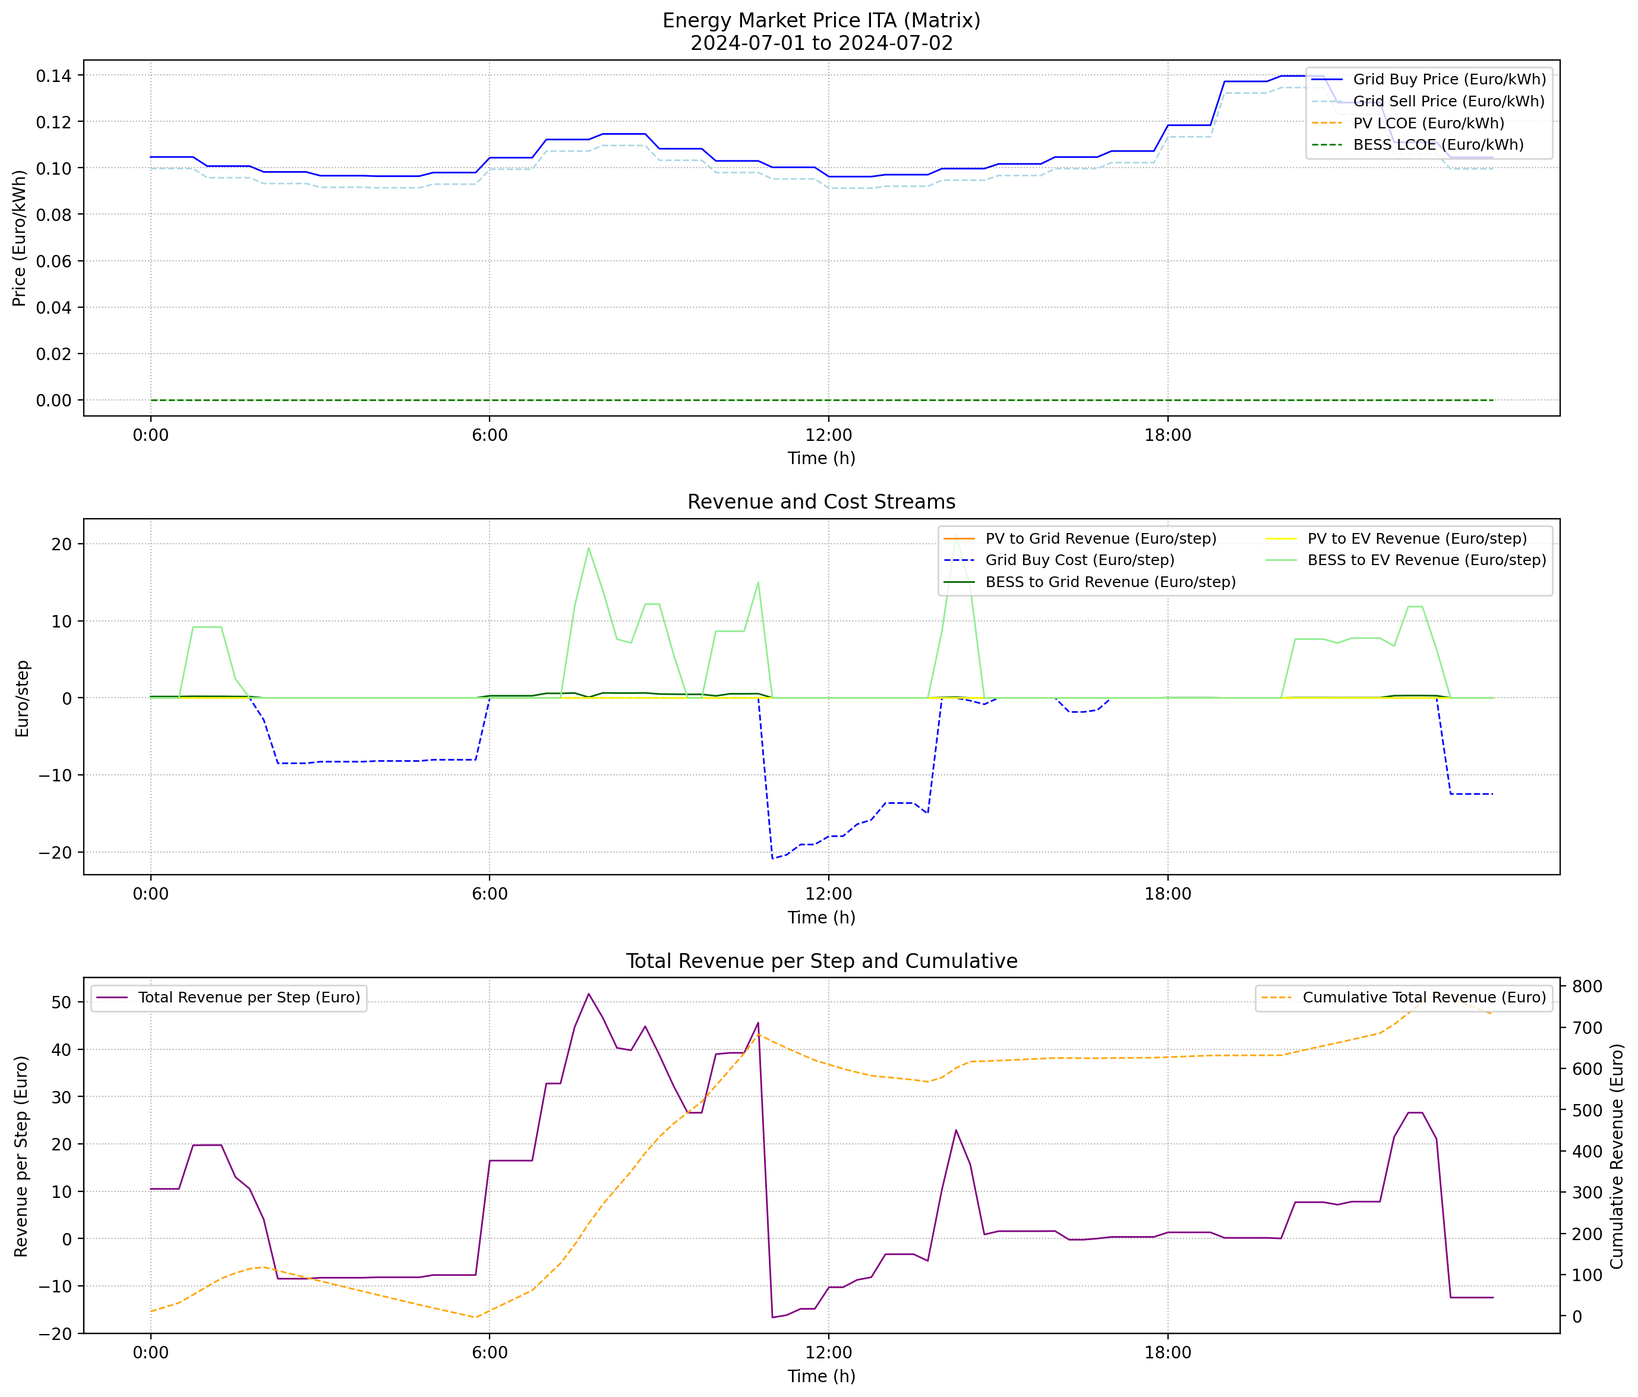
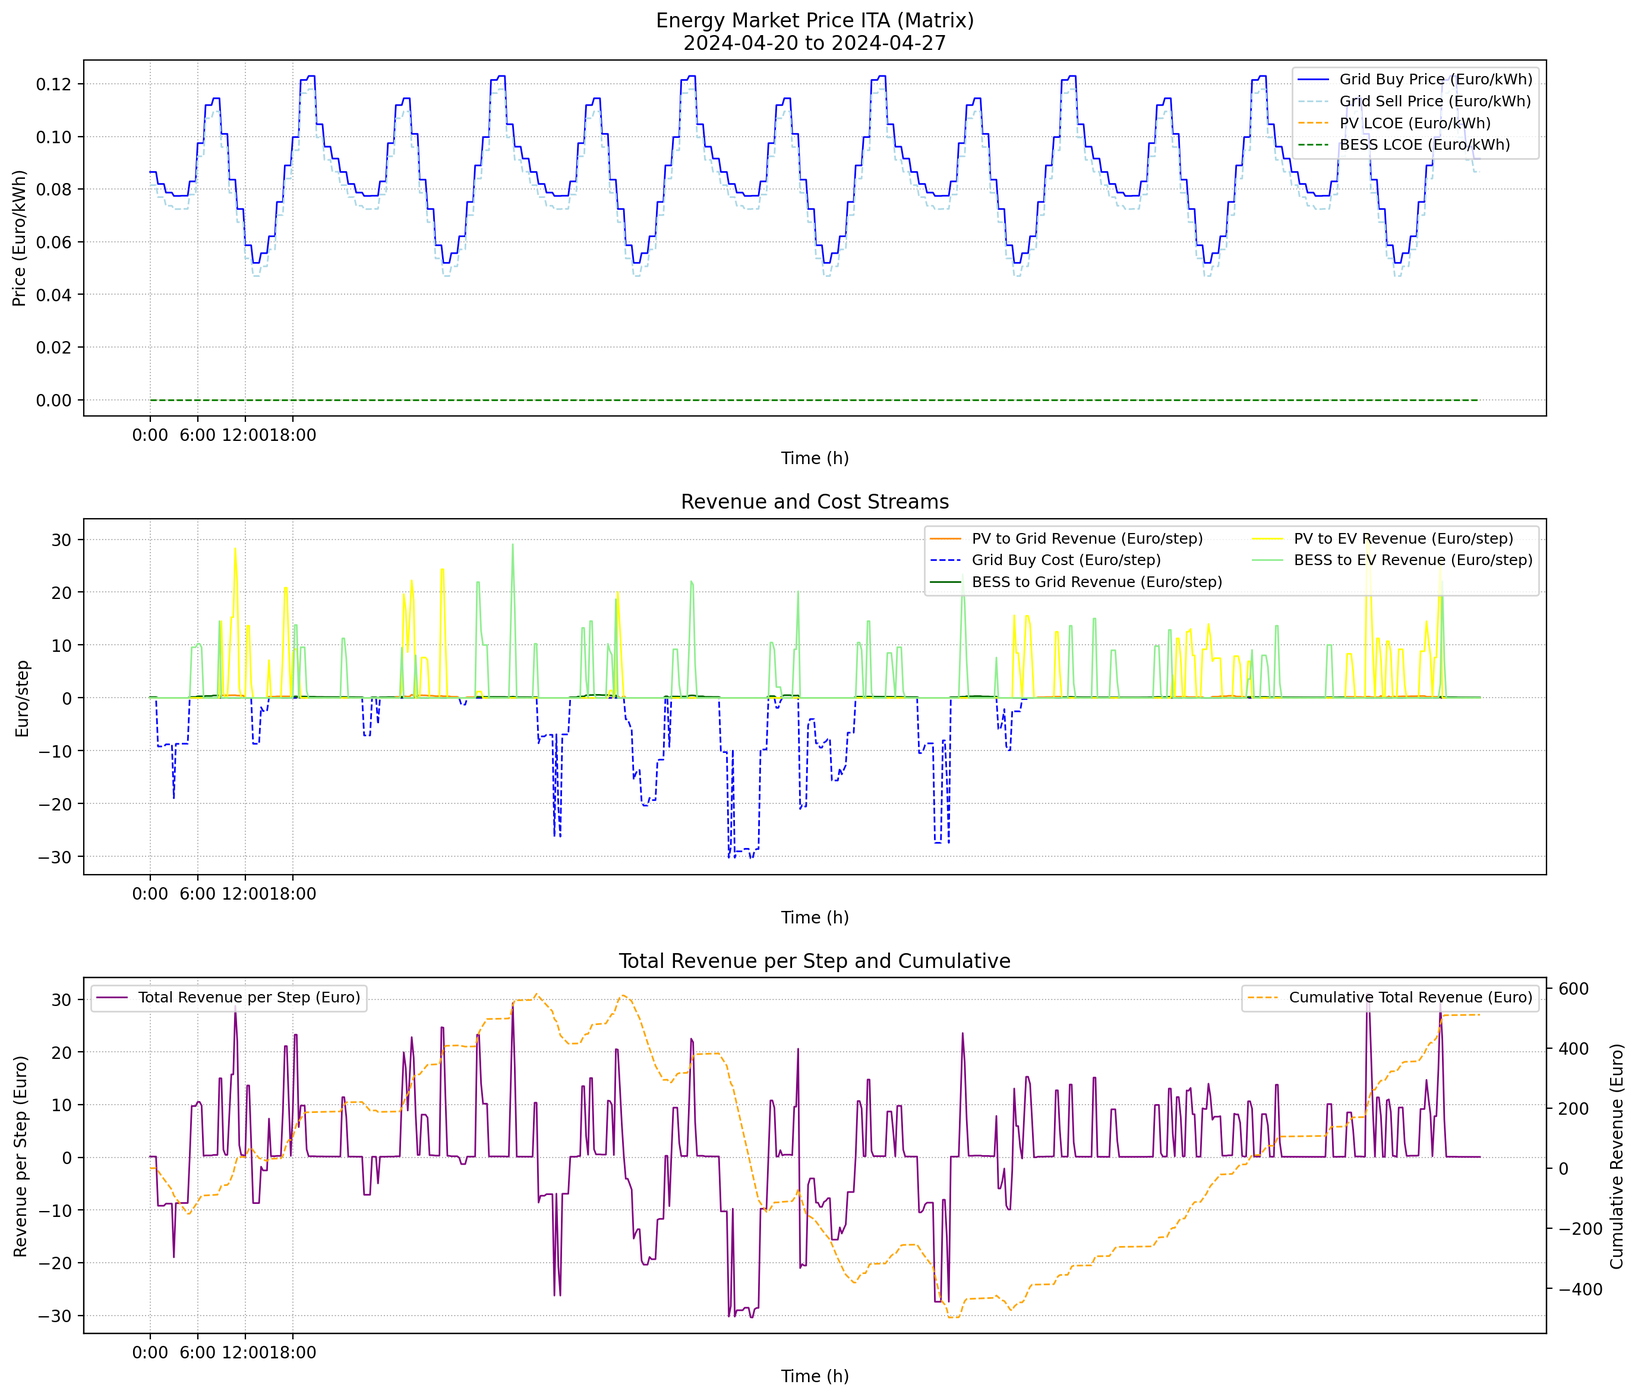
Weekly SetUp PowerFlow PyPSA

diff --git a/Computing Files/plots.py b/Computing Files/plots.py
@@ -8,9 +8,13 @@ def plot_energy_flows(results, data, revenues, save_dir=None):
     """
     plt.figure(figsize=(14, 12))
     
-    # Common x-axis setup for 1 day
-    x_ticks = np.arange(0, 24, 6)  # Hourly ticks for 1 day (0-24h)
-    x_labels = [f"{h}:00" for h in x_ticks]  # Use hour labels for clarity
+    # Common x-axis setup for 7 days (15-min intervals)
+    n_steps = len(data['time_steps'])
+    x_ticks = np.arange(0, n_steps+1, 96)  # Every 96 steps = 1 day
+    if 'day_labels' in data and len(data['day_labels']) == 7:
+        x_labels = data['day_labels'] + [data['day_labels'][-1] + ' End']  # 8 labels for 8 ticks
+    else:
+        x_labels = [str(d) for d in range(len(x_ticks))]  # Default to step numbers if no labels
     
     # Subplot 1: PV and Grid Flows
     plt.subplot(3, 1, 1)
@@ -23,8 +27,8 @@ def plot_energy_flows(results, data, revenues, save_dir=None):
     plt.legend(loc='upper right', fontsize=9)
     plt.grid(True, linestyle=':', linewidth=0.7)
     plt.xticks(x_ticks, x_labels)
-    for d in range(1, 1):  # No dividers for single day
-        plt.axvline(d * 24, color='gray', linestyle='--', linewidth=0.7)
+    for d in range(1, len(x_labels)):
+        plt.axvline(x_ticks[d], color='gray', linestyle='--', linewidth=0.7)
 
     # Subplot 2: BESS Flows and SOC (absolute units)
     plt.subplot(3, 1, 2)
@@ -38,10 +42,10 @@ def plot_energy_flows(results, data, revenues, save_dir=None):
     ax1.grid(True, linestyle=':', linewidth=0.7)
     ax1.set_xticks(x_ticks)
     ax1.set_xticklabels(x_labels)
-    for d in range(1, 1):  # No dividers for single day
-        ax1.axvline(d * 24, color='gray', linestyle='--', linewidth=0.7)
+    for d in range(1, len(x_labels)):
+        ax1.axvline(x_ticks[d], color='gray', linestyle='--', linewidth=0.7)
     ax2 = ax1.twinx()
-    ax2.plot(data['time_steps'], results.get('SOC_vals', np.zeros_like(data['pv_power']))[:-1], label='SOC (kWh)', color='green', linestyle='--', linewidth=1)
+    ax2.plot(data['time_steps'], results.get('SOC_vals', np.zeros(n_steps + 1))[:n_steps], label='SOC (kWh)', color='green', linestyle='--', linewidth=1)
     ax2.set_ylabel('SOC (kWh)')
     ax2.legend(loc='upper right', fontsize=9)
 
@@ -67,8 +71,8 @@ def plot_energy_flows(results, data, revenues, save_dir=None):
     plt.legend(loc='upper right', fontsize=9)
     plt.grid(True, linestyle=':', linewidth=0.7)
     plt.xticks(x_ticks, x_labels)
-    for d in range(1, 1):  # No dividers for single day
-        plt.axvline(d * 24, color='gray', linestyle='--', linewidth=0.7)
+    for d in range(1, len(x_labels)):
+        plt.axvline(x_ticks[d], color='gray', linestyle='--', linewidth=0.7)
 
     plt.subplots_adjust(hspace=0.35, top=0.95, bottom=0.06, left=0.07, right=0.97)
     plt.tight_layout(pad=1.5)
@@ -87,6 +91,12 @@ def plot_financials(revenues, data, save_dir=None):
     Plot financial results: prices, revenue streams, and cumulative revenue.
     """
     plt.figure(figsize=(14, 12))
+    n_steps = len(data['time_steps'])
+    x_ticks = np.arange(0, n_steps+1, 96)
+    if 'day_labels' in data and len(data['day_labels']) == 7:
+        x_labels = data['day_labels'] + [data['day_labels'][-1] + ' End']
+    else:
+        x_labels = [str(d) for d in range(len(x_ticks))]
     # Subplot 1: Market Prices
     plt.subplot(3, 1, 1)
     plt.plot(data['time_steps'], data['grid_buy_price'], label='Grid Buy Price (Euro/kWh)', color='blue', linewidth=1)
@@ -98,30 +108,24 @@ def plot_financials(revenues, data, save_dir=None):
     plt.title(f'Energy Market Price ITA (Matrix)\n{data["period_str"]}')
     plt.legend(loc='upper right', fontsize=9)
     plt.grid(True, linestyle=':', linewidth=0.7)
-    plt.xticks(np.arange(0, 24, 6), [f"{h}:00" for h in np.arange(0, 24, 6)])
-    for d in range(1, 1):  # No dividers for single day
-        plt.axvline(d * 24, color='gray', linestyle='--', linewidth=0.7)
-
+    plt.xticks(x_ticks, x_labels)
+    for d in range(1, len(x_labels)):
+        plt.axvline(x_ticks[d], color='gray', linestyle='--', linewidth=0.7)
     # Subplot 2: Revenue and Cost Streams (use new separated terms)
     plt.subplot(3, 1, 2)
-    #plt.plot(data['time_steps'], revenues.get('pv_to_consumer_rev', np.zeros_like(data['time_steps'])), label='PV to Consumer Revenue (Euro/step)', color='orange', linewidth=1)
     plt.plot(data['time_steps'], revenues.get('pv_to_grid_rev', np.zeros_like(data['time_steps'])), label='PV to Grid Revenue (Euro/step)', color='darkorange', linewidth=1)
-    #plt.plot(data['time_steps'], revenues.get('pv_to_bess_cost', np.zeros_like(data['time_steps'])), label='PV to BESS Cost (Euro/step)', color='gold', linewidth=1)
-    #plt.plot(data['time_steps'], revenues.get('bess_to_consumer_rev', np.zeros_like(data['time_steps'])), label='BESS to Consumer Revenue (Euro/step)', color='green', linewidth=1)
     plt.plot(data['time_steps'], -revenues.get('grid_buy_cost', np.zeros_like(data['time_steps'])), label='Grid Buy Cost (Euro/step)', color='blue', linewidth=1, linestyle='--')
     plt.plot(data['time_steps'], revenues.get('bess_to_grid_rev', np.zeros_like(data['time_steps'])), label='BESS to Grid Revenue (Euro/step)', color='darkgreen', linewidth=1)
     plt.plot(data['time_steps'], revenues.get('pv_to_ev_rev', np.zeros_like(data['time_steps'])), label='PV to EV Revenue (Euro/step)', color='yellow', linewidth=1)
     plt.plot(data['time_steps'], revenues.get('bess_to_ev_rev', np.zeros_like(data['time_steps'])), label='BESS to EV Revenue (Euro/step)', color='lightgreen', linewidth=1)
-    # Add more if needed, e.g., grid_buy_cost as negative
     plt.xlabel('Time (h)')
     plt.ylabel('Euro/step')
     plt.title('Revenue and Cost Streams')
     plt.legend(loc='upper right', fontsize=9, ncol=2)
     plt.grid(True, linestyle=':', linewidth=0.7)
-    plt.xticks(np.arange(0, 24, 6), [f"{h}:00" for h in np.arange(0, 24, 6)])
-    for d in range(1, 1):  # No dividers for single day
-        plt.axvline(d * 24, color='gray', linestyle='--', linewidth=0.7)
-
+    plt.xticks(x_ticks, x_labels)
+    for d in range(1, len(x_labels)):
+        plt.axvline(x_ticks[d], color='gray', linestyle='--', linewidth=0.7)
     # Subplot 3: Total and Cumulative Revenue
     plt.subplot(3, 1, 3)
     ax1 = plt.gca()
@@ -131,10 +135,10 @@ def plot_financials(revenues, data, save_dir=None):
     ax1.set_title('Total Revenue per Step and Cumulative')
     ax1.legend(loc='upper left', fontsize=9)
     ax1.grid(True, linestyle=':', linewidth=0.7)
-    ax1.set_xticks(np.arange(0, 24, 6))
-    ax1.set_xticklabels([f"{h}:00" for h in np.arange(0, 24, 6)])
-    for d in range(1, 1):  # No dividers for single day
-        ax1.axvline(d * 24, color='gray', linestyle='--', linewidth=0.7)
+    ax1.set_xticks(x_ticks)
+    ax1.set_xticklabels(x_labels)
+    for d in range(1, len(x_labels)):
+        ax1.axvline(x_ticks[d], color='gray', linestyle='--', linewidth=0.7)
     ax2 = ax1.twinx()
     cumulative_revenue = np.cumsum(revenues.get('total_net_per_step', np.zeros_like(data['time_steps'])))
     ax2.plot(data['time_steps'], cumulative_revenue, label='Cumulative Total Revenue (Euro)', color='orange', linestyle='--', linewidth=1)
@@ -152,3 +156,4 @@ def plot_financials(revenues, data, save_dir=None):
     print(f"Saving financials plot to: {save_path}")  # Debug print
     plt.savefig(save_path, dpi=200, bbox_inches='tight')
     plt.close()
+

diff --git a/Computing Files/mpc.py b/Computing Files/mpc.py
@@ -43,42 +43,49 @@ class MPC:
         n.snapshot_weightings.generators = self.delta_t
         n.snapshot_weightings.stores = self.delta_t
 
-        # Add buses with carriers
+        # Add buses
         n.add("Bus", "AC", carrier='AC')
-        n.add("Bus", "DC", carrier='DC')
+        n.add("Bus", "PV", carrier='DC')
         n.add("Bus", "Grid", carrier='AC')
-        n.add("Bus", "Grid_Sink", carrier='AC')  # Dummy sink bus for grid
-        n.add("Link", "Grid_Dump", bus0="Grid", bus1="Grid_Sink", p_nom=1e9, efficiency=0, marginal_cost=0, carrier='AC')
+        n.add("Bus", "BESS", carrier='DC')
 
-        # DC/AC converter (bidirectional) with carrier
-        n.add("Link", "DC_AC_Converter", bus0="DC", bus1="AC", p_nom=1e6, p_min_pu=-1, efficiency=0.98, efficiency2=0.98, marginal_cost=0, carrier='DC')
-
-        # PV generator (DC bus)
+        # PV generator (PV bus)
         pv_nom = max(pv_forecast)
         pv_max = np.max(pv_forecast)
         if pv_max == 0:
-            pv_max = 1  # Prevent division by zero
-        n.add("Generator", "PV", bus="DC", p_nom=pv_nom, p_max_pu=pv_forecast/pv_max, marginal_cost=0)
+            pv_max = 1
+        n.add("Generator", "PV", bus="PV", p_nom=pv_nom, p_max_pu=pv_forecast/pv_max, marginal_cost=0)
 
-        # BESS (DC bus)
-        print(f"BESS params: p_nom={self.bess_power_limit}, capacity={self.bess_capacity}")
+        # BESS StorageUnit (BESS bus)
         if self.bess_power_limit > 0 and self.bess_capacity > 0:
-            n.add("StorageUnit", "BESS", bus="DC",
+            n.add("StorageUnit", "BESS", bus="BESS",
                   p_nom=self.bess_power_limit,
                   max_hours=self.bess_capacity/self.bess_power_limit,
-                  efficiency_store=self.eta_charge,
-                  efficiency_dispatch=self.eta_discharge,
+                  efficiency_store=1.0,
+                  efficiency_dispatch=1.0,
                   marginal_cost=0,
                   state_of_charge_initial=soc)
+            # Link for grid charging BESS
+            n.add("Link", "Grid_to_BESS", bus0="Grid", bus1="BESS", p_nom=self.bess_power_limit, efficiency=self.eta_charge, marginal_cost=0)
+            n.links_t.marginal_cost["Grid_to_BESS"] = pd.Series(buy_forecast, index=n.snapshots)
+            # Link for PV charging BESS
+            n.add("Link", "PV_to_BESS", bus0="PV", bus1="BESS", p_nom=self.bess_power_limit, efficiency=self.eta_charge, marginal_cost=0)
+            # Link for BESS discharge to AC bus
+            n.add("Link", "BESS_to_AC", bus0="BESS", bus1="AC", p_nom=self.bess_power_limit, efficiency=self.eta_discharge, marginal_cost=0)
 
-        # Define SOC bounds early (relax min SOC to allow deeper discharge)
-        min_soc = 0.0  # Allow BESS to discharge fully
-        max_soc = self.bess_capacity
+        # Add uni-directional Links for charging/discharging
+        n.add("Link", "Grid_to_BESS", bus0="Grid", bus1="DC", p_nom=self.bess_power_limit, efficiency=self.eta_charge, marginal_cost=0)  # Charge from grid
+        n.links_t.marginal_cost["Grid_to_BESS"] = pd.Series(buy_forecast, index=n.snapshots)  # Pay buy price
 
-        # Grid import/export as Links with carriers (ensure unlimited supply and zero cost)
+        # For discharge, add if not implicit via DC_AC
+        n.add("Link", "BESS_to_AC", bus0="DC", bus1="AC", p_nom=self.bess_power_limit, efficiency=self.eta_discharge, marginal_cost=0)  # Discharge to AC
+
+        # DC/AC converter for PV direct supply to AC bus
+        n.add("Link", "PV_to_AC", bus0="PV", bus1="AC", p_nom=pv_nom, efficiency=0.98, marginal_cost=0)
+
+        # Grid import/export as Links
         max_grid_import = np.max(demand_forecast) + np.max(ev_forecast)
         max_grid_export = np.max(pv_forecast) + self.bess_power_limit
-
         n.add("Link", "Grid_Import", bus0="Grid", bus1="AC", p_nom=max_grid_import, efficiency=1.0, marginal_cost=0, carrier='AC')
         n.add("Link", "Grid_Export", bus0="AC", bus1="Grid", p_nom=max_grid_export, efficiency=1.0, marginal_cost=0, carrier='AC')
         n.links_t.marginal_cost["Grid_Export"] = -pd.Series(sell_forecast, index=n.snapshots)
@@ -108,10 +115,12 @@ class MPC:
         #    n.model.add_constraints(soc_var >= min_soc, name="SOC_min")
         #    n.model.add_constraints(soc_var <= max_soc, name="SOC_max")
 
+        try:
+            n.optimize.solve_model(solver_name="highs", solver_options={"parallel": "on"})
+        except Exception as e:
+            print(f"HiGHS failed: {e}. Falling back to Gurobi.")
+            n.optimize.solve_model(solver_name="gurobi", solver_options={"DualReductions": 0})
         
-        # Run optimization
-        n.optimize.solve_model(solver_name="gurobi", solver_options={"DualReductions": 0})
-
         # Fail-safe: check if solved
         if not n.is_solved:
             print("Optimization failed: infeasible or unbounded.")
@@ -139,7 +148,7 @@ class MPC:
             # Defensive extraction for BESS
             if "BESS" in n.storage_units_t.p.columns:
                 bess_dispatch = n.storage_units_t.p["BESS"].values[0]
-                soc_next = n.storage_units_t.state_of_charge["BESS"].values[0] #if len(n.storage_units_t.state_of_charge["BESS"]) > 1 else soc
+                soc_next = n.storage_units_t.state_of_charge["BESS"].values[0]
             else:
                 bess_dispatch = 0
                 soc_next = soc
@@ -157,6 +166,13 @@ class MPC:
                 grid_export = n.links_t.p0["Grid_Export"].values[0]
             else:
                 grid_export = 0
+            
+            grid_to_bess = 0
+            if "Grid_to_BESS" in n.links_t.p0.columns:
+                grid_to_bess = n.links_t.p0["Grid_to_BESS"].values[0]
+            pv_to_bess = 0
+            if "PV_to_BESS" in n.links_t.p0.columns:
+                pv_to_bess = n.links_t.p0["PV_to_BESS"].values[0]
 
             # Defensive extraction for loads
             if "Consumer" in n.loads_t.p.columns:
@@ -169,7 +185,7 @@ class MPC:
                 ev_load = 0
 
         # Add balance debug
-        dc_balance = pv_gen + bess_dispatch - (link_dc_to_ac / self.converter_efficiency)
+        dc_balance = pv_gen + grid_to_bess + pv_to_bess - bess_dispatch - (link_dc_to_ac / self.converter_efficiency)
         print(f"DC balance check: {dc_balance:.2f} (should ~0)")
 
         # Map DC to AC flow to demand and grid export
@@ -188,6 +204,7 @@ class MPC:
             'P_BESS': bess_dispatch,           # kW
             'SOC_next': soc_next,              # kWh
             'P_BESS_discharge': np.maximum(bess_dispatch, 0),  # kW
+            'P_grid_to_bess': grid_to_bess,  # kW
             'P_BESS_charge': np.abs(np.minimum(bess_dispatch, 0)),  # kW
             'P_PV_gen': pv_gen,                # kW
             'P_link_dc_to_ac': link_dc_to_ac,  # kW

diff --git a/Computing Files/post_process.py b/Computing Files/post_process.py
@@ -28,7 +28,10 @@ def compute_revenues(results, data):
     # Grid fills any gaps
     grid_to_cons = np.maximum(remaining_cons - bess_to_cons, 0)
     grid_to_ev = np.maximum(remaining_ev - bess_to_ev, 0)
-    calculated_import = grid_to_cons + grid_to_ev
+    
+    # Read grid-to-BESS charging from results
+    grid_to_bess = results.get('P_Grid_to_BESS', np.zeros_like(pv_gen))
+    calculated_import = grid_to_cons + grid_to_ev + grid_to_bess
     calculated_export = pv_to_grid + bess_to_grid
 
     # Override results for plots (pure PV/BESS separation)
@@ -42,15 +45,16 @@ def compute_revenues(results, data):
     results['P_grid_ev_vals'] = grid_to_ev
     results['P_grid_sold'] = calculated_export  # For top plot
     results['P_grid_bought'] = calculated_import  # Add if needed for purple line
+    results['P_grid_to_bess'] = grid_to_bess
 
     # Revenues (per-step arrays; include self-cons savings and EV rev)
     grid_buy_cost = calculated_import * data['grid_buy_price'] * data['delta_t']
     grid_sell_revenue = calculated_export * data['grid_sell_price'] * data['delta_t']
-    cons_savings = (pv_to_cons + bess_to_cons) * data['pi_consumer'] * data['delta_t']  # Avoided grid buy for consumer
+    #cons_savings = (pv_to_cons + bess_to_cons) * data['pi_consumer'] * data['delta_t']  # Avoided grid buy for consumer
     ev_rev = (pv_to_ev + bess_to_ev) * data['pi_ev'] * data['delta_t']  # Revenue from renewable to EV
-    pv_to_charge_cost = pv_to_charge * data['lcoe_pv'] * data['delta_t']  # Charging cost (if LCOE>0)
+    #pv_to_charge_cost = pv_to_charge * data['lcoe_pv'] * data['delta_t']  # Charging cost (if LCOE>0)
 
-    total_net_per_step = grid_sell_revenue - grid_buy_cost + cons_savings + ev_rev - pv_to_charge_cost
+    total_net_per_step = grid_sell_revenue - grid_buy_cost + ev_rev
 
     revenues = {
         'grid_sell_revenue': grid_sell_revenue,
@@ -61,7 +65,6 @@ def compute_revenues(results, data):
         'bess_to_ev_rev': bess_to_ev * data['pi_ev'] * data['delta_t'],
         'pv_to_grid_rev': pv_to_grid * data['grid_sell_price'] * data['delta_t'],
         'bess_to_grid_rev': bess_to_grid * data['grid_sell_price'] * data['delta_t'],
-        'pv_to_bess_cost': -pv_to_charge_cost,  # As positive cost
         'total_net_per_step': total_net_per_step,
         'total_revenue': np.sum(total_net_per_step)
     }

diff --git a/Computing Files/main_Optimization.py b/Computing Files/main_Optimization.py
@@ -35,7 +35,7 @@ assert len(data['grid_buy_price']) == data['n_steps']
 assert len(data['grid_sell_price']) == data['n_steps']
 
 # MPC Parameters
-horizon = 24  # 6 hours = 30 x 15-min steps
+horizon = 672  # 24 hours in 15-min steps
 mpc_controller = MPC(delta_t=data['delta_t'])
 
 # Initialize arrays including EV-related variables
@@ -49,6 +49,7 @@ P_BESS_discharge_vals = np.zeros(n_steps)
 P_BESS_charge_vals = np.zeros(n_steps)
 P_grid_consumer_vals = np.zeros(n_steps)
 P_grid_ev_vals = np.zeros(n_steps)
+P_Grid_to_BESS_vals = np.zeros(n_steps)
 P_grid_import_vals = np.zeros(n_steps)
 P_grid_export_vals = np.zeros(n_steps)
 P_PV_gen = np.zeros(n_steps)  # Dedicated array for PV generation
@@ -82,6 +83,7 @@ for t in range(n_steps):
     P_BESS_charge_vals[t] = control['P_BESS_charge']
     P_grid_consumer_vals[t] = control['grid_to_consumer']
     P_grid_ev_vals[t] = control['grid_to_ev']
+    P_Grid_to_BESS_vals[t] = control['P_grid_to_bess']
     P_grid_import_vals[t] = control['P_grid_import']
     P_grid_export_vals[t] = control['P_grid_export']
     soc_actual[t + 1] = control['SOC_next']
@@ -96,6 +98,7 @@ results = {
     'P_BESS_charge': P_BESS_charge_vals,
     'P_grid_consumer_vals': P_grid_consumer_vals,
     'P_grid_ev_vals': P_grid_ev_vals,
+    'P_Grid_to_BESS': P_Grid_to_BESS_vals,
     'P_grid_import_vals': P_grid_import_vals,
     'P_grid_export_vals': P_grid_export_vals,
     'SOC_vals': soc_actual,

diff --git a/Computing Files/pv_consumer_data_2024.py b/Computing Files/pv_consumer_data_2024.py
@@ -26,7 +26,7 @@ def compute_pv_power(start_time, end_time):
 
     # Resample to 15min intervals, forward-fill, and scale energy to 15min chunks
     df_15min = df[cols].resample('15min').ffill()
-    df_15min = df_15min * 0.25  # Convert hourly kWh to 15-min kWh
+    df_15min = df_15min  # Convert hourly kWh to 15-min kWh
 
     # Calculate consumer demand
     df_15min['consumer_demand'] = (
@@ -35,14 +35,15 @@ def compute_pv_power(start_time, end_time):
         df_15min['GridFeedIn']
     )
 
-    # Slice for exactly 1 day (24h x 4 = 96 steps)
-    df_day = df_15min.loc[start_time:end_time - pd.Timedelta(minutes=15)]
+    # Slice for exactly 7 days (7 x 24 x 4 = 672 steps)
+    df_week = df_15min.loc[start_time:end_time - pd.Timedelta(minutes=15)]
 
-    if len(df_day) != 96:
-        raise ValueError(f"Data slice from {start_time} to {end_time} has {len(df_day)} entries, expected 96.")
+    expected_steps = 7 * 24 * 4  # 672 for 7 days of 15-min intervals
+    if len(df_week) != expected_steps:
+        raise ValueError(f"Data slice from {start_time} to {end_time} has {len(df_week)} entries, expected {expected_steps}.")
 
-    pv_production = df_day['InverterYield'].values
-    consumer_demand = df_day['consumer_demand'].values
+    pv_production = df_week['InverterYield'].values
+    consumer_demand = df_week['consumer_demand'].values
 
     return {
         'pv_production': pv_production,

diff --git a/Computing Files/load_data.py b/Computing Files/load_data.py
@@ -41,7 +41,7 @@ def fetch_prices(start_dt, end_dt, use_api=True):
         raise ValueError(f"Expected 168 hourly prices, got {len(grid_buy_price_raw)}.")
     return grid_buy_price_raw, grid_sell_price_raw
 
-def load(reference_case=True, use_api=False):
+def load(reference_case=False, use_api=True):
     """
     Load all input data for the simulation.
     Returns:
